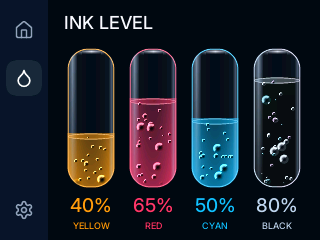
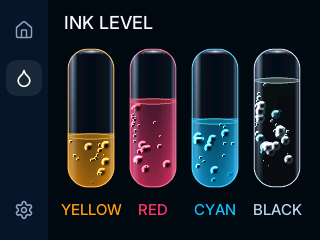
Make Ink vial labels easier to read
Remove the percentage row and enlarge each color label from 9 to 15 pixels. Center labels across the vial column so Yellow fits without reducing the vial artwork.

diff --git a/examples/mcu-board-support/pico2_touch_lcd_2_8/tests/kiosk-host/src/main.rs b/examples/mcu-board-support/pico2_touch_lcd_2_8/tests/kiosk-host/src/main.rs
@@ -234,14 +234,14 @@ fn main() {
         })
         .count();
     assert!(header_pixels > 200, "Ink title must remain visible during partial updates");
-    let percentage_pixels = (194..218)
+    let label_pixels = (194..228)
         .flat_map(|y| (64..315).map(move |x| y * 320 + x))
         .filter(|&i| {
             let p = t.pixels[i];
             p.red().max(p.green()).max(p.blue()) > 160
         })
         .count();
-    assert!(percentage_pixels > 500, "Ink percentages must remain visible during partial updates");
+    assert!(label_pixels > 500, "Ink labels must remain visible during partial updates");
     assert!(ui.global::<InkParticles>().get_frames().iter().all(|image| image.size().width > 0));
     t.pointer(24., 210., true);
     assert!(!ui.global::<Kiosk>().get_enabled());
